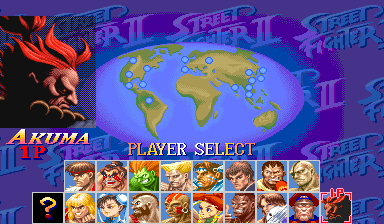
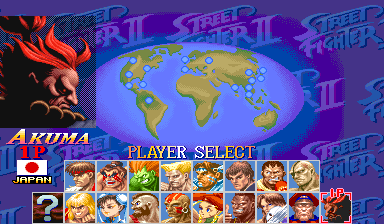
ssf2-ex: current player-select screenshot
Recapture the select screen from the rc5 build: Akuma's colored portrait,
his Japan flag and the cursor on his own cell.

Changed region(s): [[0.3125, 0.625, 0.6875, 0.7188], [0.0625, 0.8438, 0.1875, 1.0], [0.0312, 0.6875, 0.1562, 0.8438]]

diff --git a/docs/ssf2-ex/index.html b/docs/ssf2-ex/index.html
@@ -25,7 +25,7 @@
 <h2>Screenshots</h2>
 <figure class="shot single"><img src="../img/ssf2-ex/00_single.png?v=7592b76ccd" alt="The new title screen, with the EX mark. USA build."><figcaption>The new title screen, with the EX mark. USA build.</figcaption></figure>
 <figure class="shot single"><img src="../img/ssf2-ex/01_single.png?v=c8d66af5db" alt="The Japan build keeps the big X."><figcaption>The Japan build keeps the big X.</figcaption></figure>
-<figure class="shot single"><img src="../img/ssf2-ex/02_single.png?v=dd02b72a3a" alt="Akuma has his own cell on the select screen, with a random-select roulette opposite him."><figcaption>Akuma has his own cell on the select screen, with a random-select roulette opposite him.</figcaption></figure>
+<figure class="shot single"><img src="../img/ssf2-ex/02_single.png?v=bbac03fccc" alt="Akuma has his own cell on the select screen, with a random-select roulette opposite him."><figcaption>Akuma has his own cell on the select screen, with a random-select roulette opposite him.</figcaption></figure>
 <figure class="shot single"><img src="../img/ssf2-ex/03_single.png?v=10c26fcd90" alt="Ten Akuma&#x27;s Raging Demon finish, with the 天 as in the Dreamcast version."><figcaption>Ten Akuma&#x27;s Raging Demon finish, with the 天 as in the Dreamcast version.</figcaption></figure>
 <figure class="shot"><div class="pair"><div><p class="label">VS screen</p><img src="../img/ssf2-ex/04_before.png?v=e8242973f8" alt="VS screen: Portraits follow the color you picked, including the two new ones. Ryu is shown in his tenth color."></div><div><p class="label">In the fight</p><img src="../img/ssf2-ex/04_after.png?v=2381e23a79" alt="In the fight: Portraits follow the color you picked, including the two new ones. Ryu is shown in his tenth color."></div></div><figcaption>Portraits follow the color you picked, including the two new ones. Ryu is shown in his tenth color.</figcaption></figure>
 <figure class="shot single"><img src="../img/ssf2-ex/05_single.png?v=840803f190" alt="The car is back, along with the barrels and the oil drums."><figcaption>The car is back, along with the barrels and the oil drums.</figcaption></figure>
